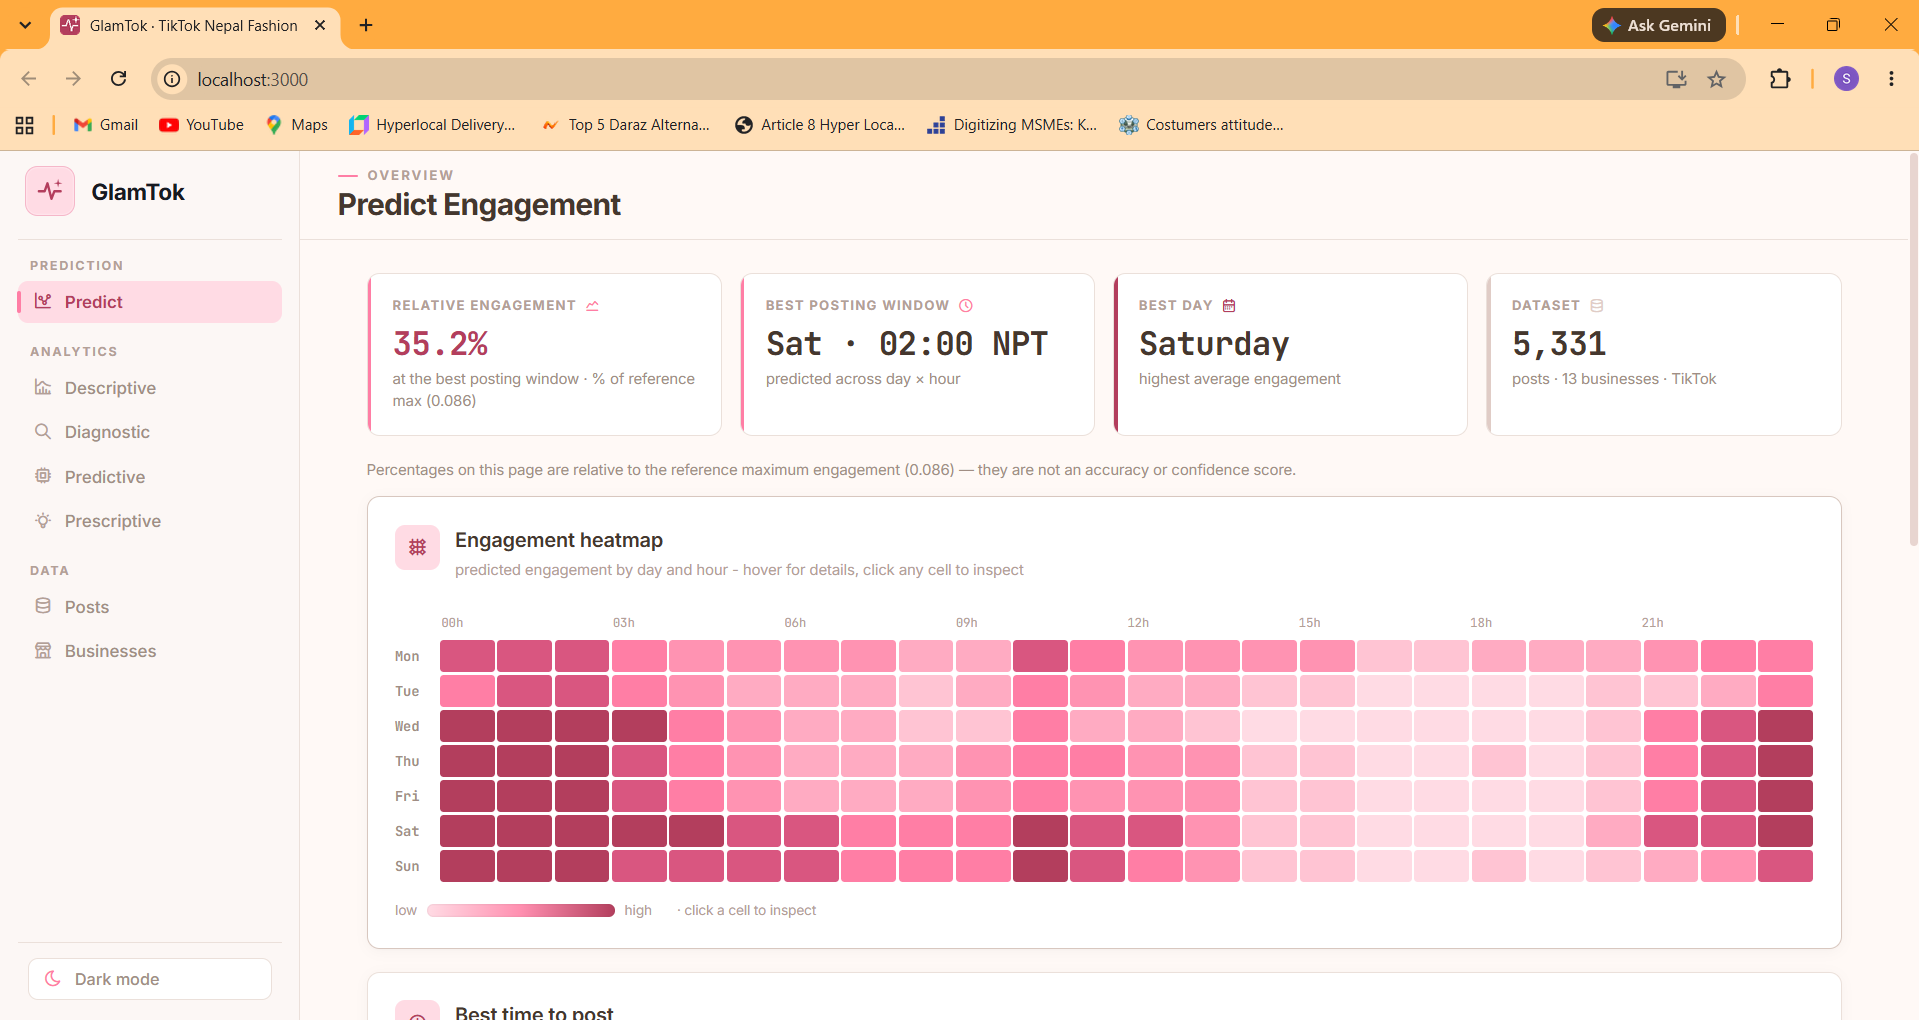
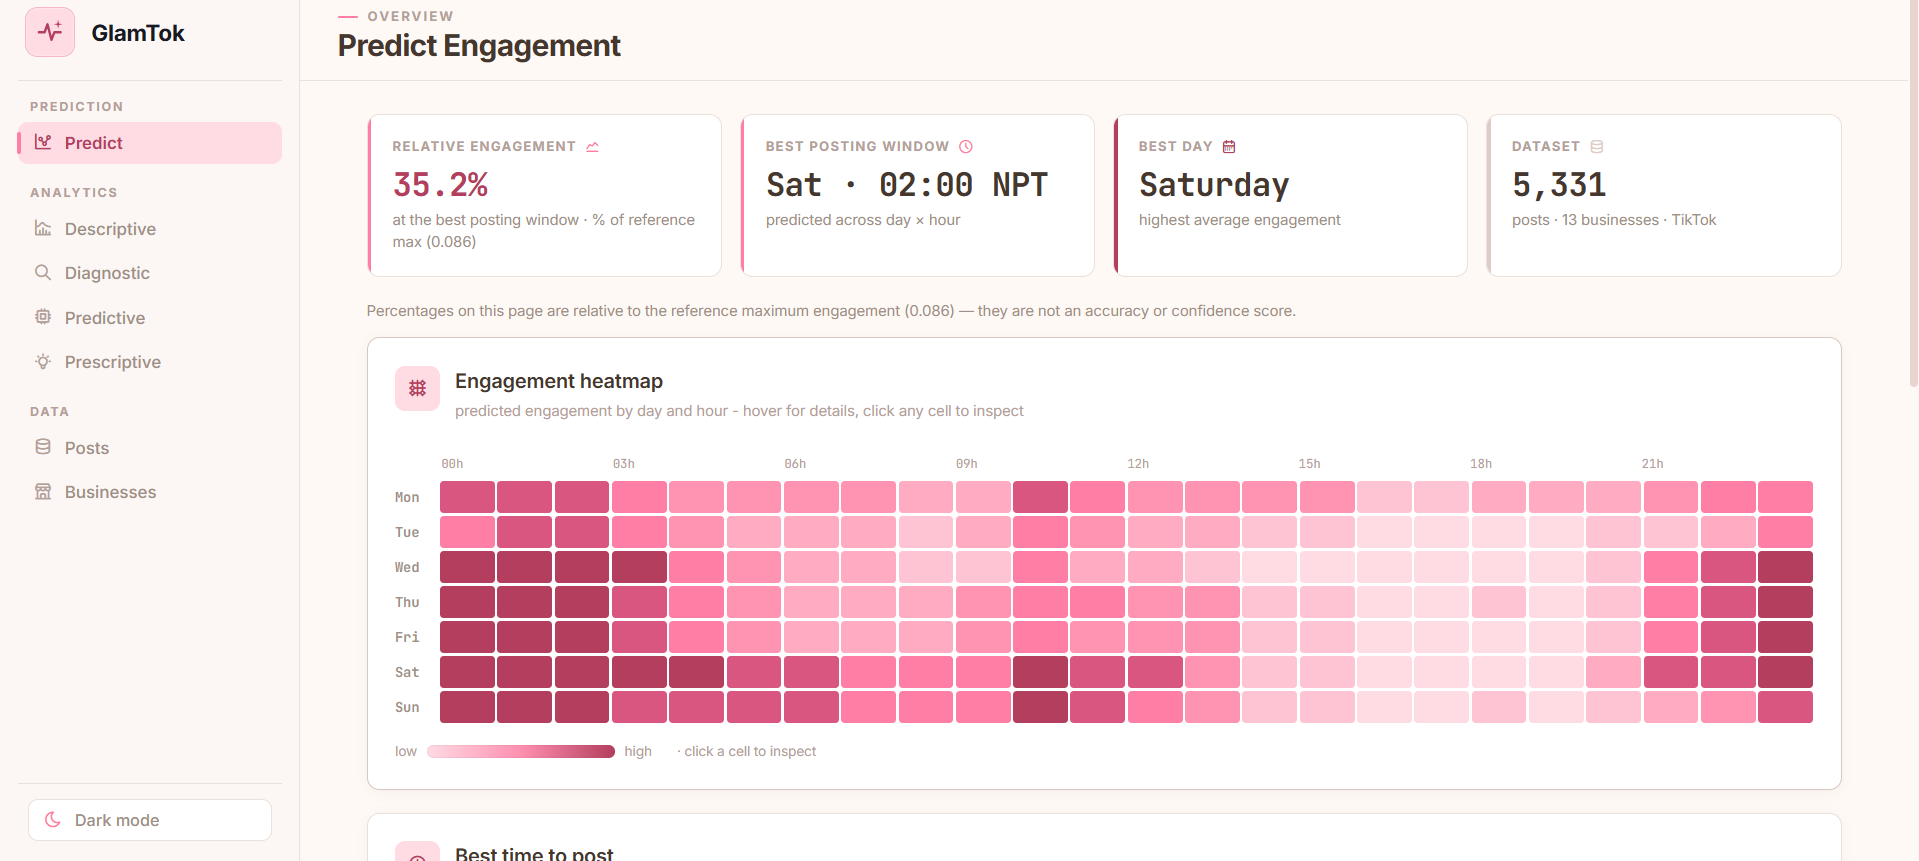
some changes

diff --git a/lib/data.ts b/lib/data.ts
@@ -37,6 +37,7 @@ export const projects: Project[] = [
       { label: "Web Source Code", href: "https://github.com/SnehaMdhr/munch_nearby_Web" },
       { label: "Figma Design", href: "https://www.figma.com/design/m8ZFwNaheUdMPp9MWXc5vX/MunchNearby?node-id=0-1&p=f&t=vqZWw0VAyIDuiQfO-0" },
     ],
+    image: "/munchnearby.png",
   },
   {
     title: "Kaam Daam",
@@ -77,12 +78,14 @@ export const projects: Project[] = [
     stack: ["Kotlin", "Android", "Firebase"],
     description: "A mobile learning companion app built natively for Android using Kotlin.",
     links: [{ label: "View Source", href: "https://github.com/apala-1/LearnMates" }],
+    image: "/learnmates.png",
   },
   {
     title: "Event Management System",
     stack: ["Python", "Tkinter"],
     description: "A desktop GUI application for creating and managing events, with persistent storage.",
     links: [{ label: "View Source", href: "https://github.com/SnehaMdhr/event_management_system" }],
+    image: "/event.png",
   },
 ];
 
@@ -105,7 +108,7 @@ export type EducationItem = {
 
 export const education: EducationItem[] = [
   {
-    date: "2023 - 2026 (result awaited)",
+    date: "2023 - 2026",
     degree: "BSc (Hons) in Computing",
     institution: "Softwarica College of IT and E-commerce, in affiliation with Coventry University",
   },
